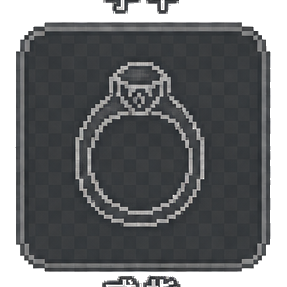
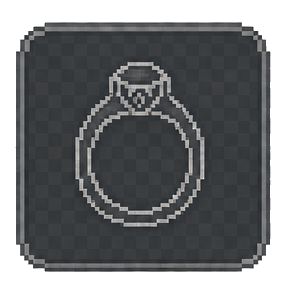
feat(UI): C属性面板重排与战斗属性定位优化
- StatPanel 右栏装备格重构：槽位名(角标)/图标(上居中)/装备名(下居中) 三层分离，消除文字与图标重叠
- 立绘区改为竖向纯框(260x460)，移除元素底光褐圈与元素属性混入，保留呼吸/视差/状态联动动效
- 战斗属性摘要从底部全宽横条移至右侧装备格正下方，宽度收窄为装备格区宽，底部预留扩展区
- 更新 equip_slots 槽位图标为更高清版本(用户手动重导出)
- 新增 zanpakuto/{shikai,bankai}/ 目录结构(.gitkeep) 待立绘精修后投放

Changed region(s): [[0.3345, 0.9477, 0.6411, 1.0], [0.3624, 0.0, 0.6411, 0.0557]]

diff --git a/src/ui/panels/StatPanel.ts b/src/ui/panels/StatPanel.ts
@@ -68,6 +68,12 @@ export function closeStatPanel(scene: GameScene): void {
   if (scene.statPanel) {
     const h = (scene as any)._statPanelUpdate;
     if (h) { scene.scene.get('UIScene').events.off('updateStats', h); (scene as any)._statPanelUpdate = null; }
+    // 清理立绘动效：解绑 pointermove + 停止 tween，避免泄漏
+    const pm = (scene as any)._statPanelPointerMove;
+    if (pm) { scene.input.off('pointermove', pm); (scene as any)._statPanelPointerMove = null; }
+    const tw = (scene as any)._statPanelTweens;
+    if (Array.isArray(tw)) tw.forEach((t: Phaser.Tweens.Tween) => t.stop());
+    (scene as any)._statPanelTweens = null;
     scene.statPanel.destroy(true); scene.statPanel = null; scene.resumeFromMenu();
   }
 }
@@ -240,78 +246,117 @@ export function renderStatPanel(scene: GameScene): void {
       p.add(abtn);
     }
 
-    // ═══ Right column: Equipment grid ═══
+    // ═══ Right column: 斩魄刀立绘(左半) + 装备格(右半) ═══
+    const spTweens: Phaser.Tweens.Tween[] = ((scene as any)._statPanelTweens = []);
+    const portraitW = 260;                 // 竖向立绘框宽度（窄长条）
+    const bandY = hdrY + 32, bandH = 460;  // 竖向高度
+    const frameX = rx, frameY = bandY, frameW = portraitW, frameH = bandH;
+    const gridX = rx + portraitW + 12;
     p.add(scene.add.text(rx, hdrY, '装备栏', { fontSize: '18px', color: '#aaccdd', fontStyle: 'bold', padding: { y: 3 } }));
-    p.add(scene.add.text(rx + 80, hdrY + 4, '（查看用·卸下请开背包 B）', { fontSize: '11px', color: '#556688', padding: { y: 1 } }));
+    p.add(scene.add.text(rx + 80, hdrY + 4, '（立绘左 · 装备格右）', { fontSize: '11px', color: '#556688', padding: { y: 1 } }));
+
+    // ── 立绘框（竖向悬挂式：纯斩魄刀立绘，不带任何元素属性）──
+    const frameBg = scene.add.graphics();
+    frameBg.fillStyle(0x0d0d1d, 0.7); frameBg.fillRoundedRect(frameX, frameY, frameW, frameH, 10);
+    frameBg.lineStyle(1.5, 0xe8d5a3, 0.5); frameBg.strokeRoundedRect(frameX, frameY, frameW, frameH, 10); p.add(frameBg);
+
+    // 视差外层 / 呼吸内层（嵌套容器，互不干扰）
+    const parallaxBox = scene.add.container(frameX + frameW / 2, frameY + frameH / 2); p.add(parallaxBox);
+    const illoBox = scene.add.container(0, 0); parallaxBox.add(illoBox);
+
+    const zkName = GameState.zanpakuto;
+    const isBankai = GameState.hasBankai, isShikai = GameState.hasShikai;
+    let artKey: string | null = null;
+    if (zkName) {
+      if (isBankai && scene.textures.exists(`zan_${zkName}_bankai`)) artKey = `zan_${zkName}_bankai`;
+      else if (scene.textures.exists(`zan_${zkName}_shikai`)) artKey = `zan_${zkName}_shikai`;
+    }
+    let illoImg: Phaser.GameObjects.Image | null = null;
+    if (artKey) {
+      illoImg = scene.add.image(0, 0, artKey).setOrigin(0.5);
+      const src = scene.textures.get(artKey).getSourceImage() as { width: number; height: number };
+      // 竖向框：以高度为主适配，保留刀竖直悬挂（刀柄在上、刀身在下的原始比例）
+      const sc = Math.min((frameW - 24) / src.width, (frameH - 36) / src.height, 1.4);
+      illoImg.setScale(sc);
+      illoBox.add(illoImg);
+    } else {
+      // 无立绘：中立占位文字（不显示元素图标，避免元素属性混入立绘区）
+      illoBox.add(scene.add.text(0, 0, zkName ? (isShikai ? '始解立绘待导入' : '立绘待导入') : '— 未觉醒 —',
+        { fontSize: '13px', color: '#6677aa', align: 'center', padding: { y: 2 } }).setOrigin(0.5));
+    }
+
+    // 铭牌（仅刀名 + 始解/卍解状态，不含元素）
+    p.add(scene.add.text(frameX + frameW / 2, frameY + frameH - 14,
+      zkName ? `${zkName}  始解${isShikai ? '✓' : '✗'} 卍解${isBankai ? '✓' : '✗'}`
+             : '尚无斩魄刀',
+      { fontSize: '12px', color: '#8899bb', padding: { y: 1 } }).setOrigin(0.5));
+
+    // ── 动效（T1 呼吸 + T4 视差 + T5 状态联动；已移除元素底光 T2'）──
+    const amp = !zkName ? 0 : isBankai ? 9 : isShikai ? 7 : 4;
+    const dur = isBankai ? 3000 : isShikai ? 3400 : 4500;
+    if (illoBox && amp > 0) {
+      spTweens.push(scene.tweens.add({ targets: illoBox, y: -amp, duration: dur, yoyo: true, repeat: -1, ease: 'Sine.inOut' }));
+      spTweens.push(scene.tweens.add({ targets: illoBox, scaleY: 1.03, duration: dur * 0.9, yoyo: true, repeat: -1, ease: 'Sine.inOut' }));
+    }
+    if (isBankai && illoImg) {
+      spTweens.push(scene.tweens.add({ targets: illoImg, angle: 1.2, duration: 6000, yoyo: true, repeat: -1, ease: 'Sine.inOut' }));
+    }
+    // T4 鼠标视差
+    const cxS = frameX + frameW / 2, cyS = frameY + frameH / 2;
+    const onPointerMove = (pointer: Phaser.Input.Pointer) => {
+      if (!parallaxBox.active) return;
+      const dx = (pointer.x - cxS) / (GAME_WIDTH / 2), dy = (pointer.y - cyS) / (GAME_HEIGHT / 2);
+      const ax = isBankai ? 16 : 12, ay = isBankai ? 10 : 7;
+      scene.tweens.killTweensOf(parallaxBox);
+      scene.tweens.add({ targets: parallaxBox, x: cxS + dx * ax, y: cyS + dy * ay, duration: 300, ease: 'Sine.out' });
+    };
+    scene.input.on('pointermove', onPointerMove);
+    (scene as any)._statPanelPointerMove = onPointerMove;
+
+    // ── 装备格（立绘右侧，3×3 小格）──
     const eq = Inventory.equipment;
     const sn: Record<string, string> = { weapon: '斩魄刀', head: '头部', body: '身体', bracer: '手甲', boots: '战靴', belt: '腰带', ring: '戒指', necklace: '项链', charm: '护符', pendant: '挂饰' };
     const eqs: EquipSlot[] = ['head', 'body', 'bracer', 'boots', 'belt', 'ring', 'necklace', 'charm', 'pendant'];
-    const eqY = hdrY + 36;
-    const eqColW = (colW - 10) / 2;
-    const eqRowH = 76;
-    // 斩魄刀（固定头部，独立于装备槽渲染）
-    {
-      const zkW = 2 * eqColW + 10, zkH = 66;
-      const zer = scene.add.graphics(); zer.fillStyle(0x0d0d1d, 0.6); zer.fillRoundedRect(rx, eqY, zkW, zkH, 6);
-      zer.lineStyle(1, 0x334466, 0.4); zer.strokeRoundedRect(rx, eqY, zkW, zkH, 6); p.add(zer);
-      p.add(scene.add.text(rx + 10, eqY + 6, '斩魄刀', { fontSize: '11px', color: '#667799', fontStyle: 'bold', padding: { y: 1 } }));
-      const zk = GameState.zanpakuto;
-      if (zk) {
-        p.add(scene.add.text(rx + 10, eqY + 24, zk, { fontSize: '13px', color: '#e8d5a3', fontStyle: 'bold', padding: { y: 1 } }));
-        const zkElKey = GameState.element ? `icon_${GameState.element}` : null;
-        if (zkElKey && scene.textures.exists(zkElKey)) {
-          p.add(scene.add.image(rx + zkW - 22, eqY + 33, zkElKey).setOrigin(0.5).setDisplaySize(34, 34));
-        }
-        p.add(scene.add.text(rx + 10, eqY + 46, `元素: ${GameState.element || '无'}  (始解${GameState.hasShikai ? '✓' : '✗'})`, { fontSize: '10px', color: '#8899bb', padding: { y: 1 } }));
-      } else {
-        p.add(scene.add.text(rx + 10, eqY + 28, '— 未觉醒 —', { fontSize: '13px', color: '#334455', padding: { y: 1 } }));
-      }
-    }
-    const ICON = 58;   // 槽位 PNG 显示尺寸（以 PNG 形状为主）
+    const gCols = 3, gGap = 8, gCellW = (colW - portraitW - 12 - gGap * (gCols - 1)) / gCols, gCellH = 82;
+    const QC: Record<string, string> = { white: '#cccccc', green: '#44cc44', blue: '#4488ff', purple: '#cc44cc', gold: '#ffaa00' };
     eqs.forEach((s, i) => {
-      const c2 = i % 2, r2 = Math.floor(i / 2);
-      const sx = rx + c2 * (eqColW + 10), sy = eqY + eqRowH + r2 * eqRowH;
+      const c = i % gCols, r = Math.floor(i / gCols);
+      const sx = gridX + c * (gCellW + gGap), sy = bandY + r * (gCellH + gGap);
       const it = eq[s];
       const q = it?.quality || 'white';
-      // 品质色（代码描边，不使用 PNG 边框——沿用旧版观感，用户偏好代码实现）
-      const QC: Record<string, string> = { white: '#cccccc', green: '#44cc44', blue: '#4488ff', purple: '#cc44cc', gold: '#ffaa00' };
       const qCol = parseInt((QC[q] || '#cccccc').replace('#', ''), 16);
-      // 背板 + 品质描边（代码实现）
-      const er = scene.add.graphics(); er.fillStyle(0x0d0d1d, 0.6); er.fillRoundedRect(sx, sy, eqColW, 66, 6);
-      er.lineStyle(it ? 2 : 1, it ? qCol : 0x334466, it ? 0.95 : 0.4); er.strokeRoundedRect(sx, sy, eqColW, 66, 6); p.add(er);
-      if (it) addEnhanceGlow(scene, p, er, sx, sy, eqColW, 66, it, 6);
-      // 槽位 PNG（以图片形状为主，铺在左侧）
+      const er = scene.add.graphics(); er.fillStyle(0x0d0d1d, 0.6); er.fillRoundedRect(sx, sy, gCellW, gCellH, 6);
+      er.lineStyle(it ? 2 : 1, it ? qCol : 0x334466, it ? 0.95 : 0.4); er.strokeRoundedRect(sx, sy, gCellW, gCellH, 6); p.add(er);
+      if (it) addEnhanceGlow(scene, p, er, sx, sy, gCellW, gCellH, it, 6);
       const slotKey = `slot_${s}`;
-      const cx = sx + ICON / 2 + 4, cyc = sy + 33;
+      const ic = Math.min(gCellW, gCellH) - 30;
+      const iconY = sy + 30;
       if (scene.textures.exists(slotKey)) {
-        p.add(scene.add.image(cx, cyc, slotKey).setOrigin(0.5).setDisplaySize(ICON, ICON));
+        p.add(scene.add.image(sx + gCellW / 2, iconY, slotKey).setOrigin(0.5).setDisplaySize(ic, ic).setAlpha(it ? 1 : 0.5));
       }
-      // 文本信息（整体右移给槽位图标让位）
-      const tx = sx + ICON + 12;
-      p.add(scene.add.text(tx, sy + 6, sn[s], { fontSize: '11px', color: '#667799', fontStyle: 'bold', padding: { y: 1 } }));
+      // 左上角：槽位名小标签（不占用主视觉区）
+      p.add(scene.add.text(sx + 6, sy + 5, sn[s], { fontSize: '9px', color: '#556688', padding: { y: 1 } }));
+
+      // 下层居中：装备名（含强化等级，按品质染色）
+      const nmY = sy + gCellH - 13;
       if (it) {
-        const elv = it.enhanceLevel || 0; const lvTxt = elv > 0 ? ` +${elv}` : '';
-        const itemTxt = scene.add.text(tx, sy + 24, `${it.name}${lvTxt}`, {
-          fontSize: '13px', color: QC[q] || '#cccccc', fontStyle: 'bold', padding: { y: 1 }
-        });
-        // Truncate long names
-        if (itemTxt.width > eqColW - (ICON + 16)) { itemTxt.setText(it.name.slice(0, 8) + '…' + lvTxt); }
-        p.add(itemTxt);
-        const sts = Object.entries(it.stats as Record<string, number>).map(([k, v]) => `${k}+${v}`).join('  ');
-        p.add(scene.add.text(tx, sy + 46, sts, { fontSize: '10px', color: '#8899bb', padding: { y: 1 } }));
-        const refineStr = getRefineDisplay(it);
-        if (refineStr) p.add(scene.add.text(tx, sy + 58, `精炼: ${refineStr}`, { fontSize: '9px', color: '#F5A623', padding: { y: 1 } }));
-        // 属性面板(C)仅查看装备，不允许点击卸下（卸下请在背包(B)面板操作）
+        const lvTxt = (it.enhanceLevel || 0) > 0 ? ` +${it.enhanceLevel}` : '';
+        const nm = scene.add.text(sx + gCellW / 2, nmY, `${it.name}${lvTxt}`,
+          { fontSize: '10px', color: QC[q] || '#cccccc', fontStyle: 'bold', align: 'center', padding: { y: 1 } }).setOrigin(0.5, 0.5);
+        if (nm.width > gCellW - 8) nm.setText(it.name.slice(0, 5) + '…' + lvTxt);
+        p.add(nm);
       } else {
-        p.add(scene.add.text(sx + ICON + 12, sy + 30, '— 空 —', { fontSize: '13px', color: '#334455', padding: { y: 1 } }));
+        p.add(scene.add.text(sx + gCellW / 2, nmY, '空', { fontSize: '10px', color: '#334455' }).setOrigin(0.5, 0.5));
       }
     });
 
-    // ═══ Right column: Derived combat stats summary (below equipment) ═══
-    const sumY = eqY + 6 * eqRowH + 8;
-    if (sumY + 142 < oy + oh) {
-      const sumBg = scene.add.graphics(); sumBg.fillStyle(0x1a1a36, 0.5); sumBg.fillRoundedRect(rx, sumY, colW, 132, 6); sumBg.lineStyle(1, 0x334466, 0.3); sumBg.strokeRoundedRect(rx, sumY, colW, 132, 6); p.add(sumBg);
-      p.add(scene.add.text(rx + 16, sumY + 8, '战斗属性', { fontSize: '13px', color: '#aaccdd', fontStyle: 'bold', padding: { y: 1 } }));
+    // ═══ 战斗属性摘要（紧贴装备格下方，仅右侧区域） ═══
+    const gridBottom = bandY + 3 * (gCellH + gGap);   // 3行装备格底部
+    const sumY = gridBottom + 10;
+    const sumW = colW - portraitW - 12;                 // 仅装备格区域宽
+    if (sumY + 132 < oy + oh) {
+      const sumBg = scene.add.graphics(); sumBg.fillStyle(0x1a1a36, 0.5); sumBg.fillRoundedRect(gridX, sumY, sumW, 132, 6); sumBg.lineStyle(1, 0x334466, 0.3); sumBg.strokeRoundedRect(gridX, sumY, sumW, 132, 6); p.add(sumBg);
+      p.add(scene.add.text(gridX + 16, sumY + 8, '战斗属性', { fontSize: '13px', color: '#aaccdd', fontStyle: 'bold', padding: { y: 1 } }));
       const ds = [
         `生命: ${GameState.maxHp}`, `法力: ${GameState.maxMp}`,
         `物攻: ${GameState.atk}`, `物防: ${GameState.def}`,
@@ -321,9 +366,10 @@ export function renderStatPanel(scene: GameScene): void {
       ];
       ds.forEach((line, i) => {
         const c2 = i % 2, r2 = Math.floor(i / 2);
-        p.add(scene.add.text(rx + 16 + c2 * (colW / 2 - 10), sumY + 32 + r2 * 22, line, { fontSize: '12px', color: '#8899bb', padding: { y: 1 } }));
+        p.add(scene.add.text(gridX + 16 + c2 * (sumW / 2 - 10), sumY + 32 + r2 * 22, line, { fontSize: '12px', color: '#8899bb', padding: { y: 1 } }));
       });
     }
+    // 底部预留区域留给以后扩展内容
 
     // Footer
     const fy = oy + oh - 28; const ft = scene.add.graphics(); ft.fillStyle(0x1a1a36, 0.8); ft.fillRoundedRect(ox + 4, fy, ow - 8, 24, { tl: 0, tr: 0, bl: 10, br: 10 }); p.add(ft);
